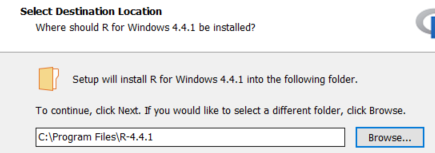
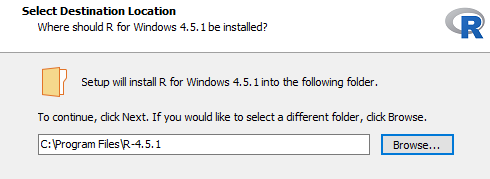
updating R install info

diff --git a/docs/course_overview.html b/docs/course_overview.html
@@ -93,8 +93,8 @@ code span.wa { color: #5e5e5e; font-style: italic; } /* Warning */
 
 
   <!--  https://schema.org/Article -->
-  <meta property="article:published" itemprop="datePublished" content="2025-08-20"/>
-  <meta property="article:created" itemprop="dateCreated" content="2025-08-20"/>
+  <meta property="article:published" itemprop="datePublished" content="2025-09-01"/>
+  <meta property="article:created" itemprop="dateCreated" content="2025-09-01"/>
 
   <!--  https://developers.facebook.com/docs/sharing/webmasters#markup -->
   <meta property="og:title" content="2025 Model Workshop - Website: Overview of workshop"/>
@@ -110,7 +110,7 @@ code span.wa { color: #5e5e5e; font-style: italic; } /* Warning */
   <!--radix_placeholder_rmarkdown_metadata-->
 
   <script type="text/json" id="radix-rmarkdown-metadata">
-  {"type":"list","attributes":{"names":{"type":"character","attributes":{},"value":["title","date","output","draft"]}},"value":[{"type":"character","attributes":{},"value":["Overview of workshop"]},{"type":"character","attributes":{},"value":["2025-08-20"]},{"type":"list","attributes":{"names":{"type":"character","attributes":{},"value":["distill::distill_article"]}},"value":[{"type":"list","attributes":{"names":{"type":"character","attributes":{},"value":["self_contained","toc","toc_float","depth","number_sections","code_folding"]}},"value":[{"type":"logical","attributes":{},"value":[true]},{"type":"logical","attributes":{},"value":[true]},{"type":"logical","attributes":{},"value":[true]},{"type":"integer","attributes":{},"value":[3]},{"type":"logical","attributes":{},"value":[false]},{"type":"logical","attributes":{},"value":[true]}]}]},{"type":"logical","attributes":{},"value":[false]}]}
+  {"type":"list","attributes":{"names":{"type":"character","attributes":{},"value":["title","date","output","draft"]}},"value":[{"type":"character","attributes":{},"value":["Overview of workshop"]},{"type":"character","attributes":{},"value":["2025-09-01"]},{"type":"list","attributes":{"names":{"type":"character","attributes":{},"value":["distill::distill_article"]}},"value":[{"type":"list","attributes":{"names":{"type":"character","attributes":{},"value":["self_contained","toc","toc_float","depth","number_sections","code_folding"]}},"value":[{"type":"logical","attributes":{},"value":[true]},{"type":"logical","attributes":{},"value":[true]},{"type":"logical","attributes":{},"value":[true]},{"type":"integer","attributes":{},"value":[3]},{"type":"logical","attributes":{},"value":[false]},{"type":"logical","attributes":{},"value":[true]}]}]},{"type":"logical","attributes":{},"value":[false]}]}
   </script>
   <!--/radix_placeholder_rmarkdown_metadata-->
   <!--radix_placeholder_navigation_in_header-->
@@ -2094,7 +2094,7 @@ code span.wa { color: #5e5e5e; font-style: italic; } /* Warning */
 <!--radix_placeholder_front_matter-->
 
 <script id="distill-front-matter" type="text/json">
-{"title":"Overview of workshop","authors":[],"publishedDate":"2025-08-20T00:00:00.000+10:00"}
+{"title":"Overview of workshop","authors":[],"publishedDate":"2025-09-01T00:00:00.000+10:00"}
 </script>
 
 <!--/radix_placeholder_front_matter-->
@@ -2154,16 +2154,15 @@ Extra topics
 <ul>
 <li><a href="#acknowledgement-of-country" id="toc-acknowledgement-of-country">Acknowledgement of country</a></li>
 <li><a href="#workshop-structure" id="toc-workshop-structure">Workshop Structure</a></li>
-<li><a href="#what-the-workshop-is-trying-to-do" id="toc-what-the-workshop-is-trying-to-do">What the workshop is trying to do</a></li>
+<li><a href="#at-the-end-of-the-workshop-attendees-should-be-able-to" id="toc-at-the-end-of-the-workshop-attendees-should-be-able-to">At the end of the workshop attendees should be able to:</a></li>
 <li><a href="#what-is-it-not-trying-to-do" id="toc-what-is-it-not-trying-to-do">What is it <strong>NOT</strong> trying to do</a></li>
 <li><a href="#what-to-expect" id="toc-what-to-expect">What to expect</a>
 <ul>
 <li><a href="#approach" id="toc-approach">Approach</a></li>
-<li><a href="#may-need-to-take-a-step-back-at-times" id="toc-may-need-to-take-a-step-back-at-times">May need to take a step-back at times</a></li>
+<li><a href="#group-projects" id="toc-group-projects">Group projects</a></li>
 </ul></li>
 <li><a href="#course-website" id="toc-course-website">Course Website</a></li>
 <li><a href="#plug-for-qeari" id="toc-plug-for-qeari">Plug for QEARI</a></li>
-<li><a href="#what-to-do-when-my-brain-hurts" id="toc-what-to-do-when-my-brain-hurts">What to do when my brain hurts…</a></li>
 </ul>
 </nav>
 </div>
@@ -2173,10 +2172,10 @@ Extra topics
 <h1 id="workshop-structure">Workshop Structure</h1>
 <p>This is a 4-day workshop ( SEP16-19 2024) with each day running from 9am-12pm. During each day’s session, we will cover a new topic in the workflow pipeline.</p>
 <ul>
-<li><p>Monday: Overview of workflow, importing, cleaning (Ben)</p></li>
-<li><p>Tuesday: Analysis of data (Paul)</p></li>
-<li><p>Wednesday: Creating reports (Paul)</p></li>
-<li><p>Thursday: Creating shiny Apps (Ben)</p></li>
+<li><p>Monday: Which statistical distribution to pick (Ben)</p></li>
+<li><p>Tuesday: Continuous data models (Paul)</p></li>
+<li><p>Wednesday: Discrete data models (Ben)</p></li>
+<li><p>Thursday: More advanced models (Paul)</p></li>
 </ul>
 <p>Within each day, the session is structured to be mainly ‘talk-and-chalk’ for the first half and then more hands-on for the second half.</p>
 <p>** Notes **</p>
@@ -2185,76 +2184,38 @@ Extra topics
 <li><p><strong>Ask questions</strong> anytime. Most likely someone else will have the same question. We may defer the question to hands-on section if it is too much of rabbit-hole.</p></li>
 <li><p>We will have a wide range of skills across the days</p></li>
 </ol>
-<p><strong>Most Importantly, tea will be provided!! 😀</strong></p>
+<p><strong>Most Importantly, tea will be provided!! 😃</strong></p>
 <hr />
-<h1 id="what-the-workshop-is-trying-to-do">What the workshop is trying to do</h1>
+<h1 id="at-the-end-of-the-workshop-attendees-should-be-able-to">At the end of the workshop attendees should be able to:</h1>
 <ul>
-<li>Become familiar with data analyst workflow</li>
-<li>Learn a workflow from data cleaning to analysis to presenting/communicating results in one platform</li>
-<li>Increase your knowledge about the R workflow, resources, and capabilities 👍</li>
-<li>Provide a resource to refer to to help remind you how to get going</li>
+<li>Select which distribution the data comes from</li>
+<li>Decide which statistical model is appropriate</li>
+<li>How to construct that model and run it in R</li>
+<li>Know how to interpret the model results</li>
+<li>Know what to present to their audience</li>
 </ul>
 <h1 id="what-is-it-not-trying-to-do">What is it <strong>NOT</strong> trying to do</h1>
 <ul>
-<li>Turn you into a R programmer/Shiny app developer in 4 days</li>
-<li>Going in-depth into any specific topic (except R workflow)</li>
+<li>Turn you into a R programmer in 4 days</li>
 <li>Make you cry 😢</li>
 </ul>
 <hr />
 <h1 id="what-to-expect">What to expect</h1>
 <h2 id="approach">Approach</h2>
-<p>Compared to when we started providing biometrics workshops, the amount of resources and online learning tools has exploded. Partly as a consequence, there has been a homogenization of workflow driven by key leaders in the area that have pushed the technology and analysis paradigms.</p>
-<p>Given this, we will attempt in this workshop to act more as a guide to help you develop a solid framework that you can use as a launching point. We will point out amazing resources out but also hoping that the workshop will give you the foundation to dive deeper into the topics specific to your research/needs. Part of this is introducing to you to tools/concepts as well as introducing to the terminology in R workflows.</p>
-<h2 id="may-need-to-take-a-step-back-at-times">May need to take a step-back at times</h2>
-<p>For some, the last two days of the workshop might push their limits but the skills in these session are becoming more important as the expectation of how we communicate our research grows and evolves.</p>
-<p>On Day 3 (creating reports), the Quarto(/Rmarkdown) approach takes a bit to get used to if you are used to WYSIWYG (<strong>W</strong>hat <strong>Y</strong>ou <strong>S</strong>ee <strong>I</strong>s <strong>W</strong>hat <strong>Y</strong>ou <strong>G</strong>et). The key is to focus on the higher level concepts (e.g. focusing on the higher level concepts of how it could be useful for your research). Most importantly, once you have a template to work from and understand key fundamentals, you can easily modify (often having no clue how most of it works…my approach for years to be honest).</p>
-<p>Now, for Day 4 (Shiny Apps), Shiny is going to look, frustratingly, different as shown below:</p>
-<div class="layout-chunk" data-layout="l-body">
-<details>
-<summary>
-Show code
-</summary>
-<div class="sourceCode">
-<pre class="sourceCode r"><code class="sourceCode r"><span><span class='kw'><a href='https://rdrr.io/r/base/library.html'>library</a></span><span class='op'>(</span><span class='va'><a href='https://shiny.posit.co/'>shiny</a></span><span class='op'>)</span></span>
-<span></span>
-<span><span class='co'># Define UI for application that draws a histogram</span></span>
-<span><span class='va'>ui</span> <span class='op'>&lt;-</span> <span class='fu'><a href='https://rdrr.io/pkg/shiny/man/fluidPage.html'>fluidPage</a></span><span class='op'>(</span></span>
-<span>  <span class='fu'><a href='https://rdrr.io/pkg/shiny/man/fluidPage.html'>fluidRow</a></span><span class='op'>(</span> </span>
-<span>    <span class='fu'><a href='https://rdrr.io/pkg/shiny/man/selectInput.html'>selectInput</a></span><span class='op'>(</span><span class='st'>'x'</span>,<span class='st'>'X-Variable'</span>, choices <span class='op'>=</span> <span class='fu'><a href='https://rdrr.io/r/base/names.html'>names</a></span><span class='op'>(</span><span class='va'>mtcars</span><span class='op'>)</span><span class='op'>)</span>,</span>
-<span>    <span class='fu'><a href='https://rdrr.io/pkg/shiny/man/selectInput.html'>selectInput</a></span><span class='op'>(</span><span class='st'>'y'</span>,<span class='st'>'Y-Variable'</span>, choices <span class='op'>=</span> <span class='fu'><a href='https://rdrr.io/r/base/names.html'>names</a></span><span class='op'>(</span><span class='va'>mtcars</span><span class='op'>)</span><span class='op'>)</span>,</span>
-<span>    <span class='fu'><a href='https://rdrr.io/pkg/shiny/man/plotOutput.html'>plotOutput</a></span><span class='op'>(</span><span class='st'>'plot'</span><span class='op'>)</span> </span>
-<span><span class='op'>)</span></span>
-<span><span class='op'>)</span></span>
-<span><span class='co'># Define server logic required to draw a histogram</span></span>
-<span><span class='va'>server</span> <span class='op'>&lt;-</span> <span class='kw'>function</span><span class='op'>(</span><span class='va'>input</span>, <span class='va'>output</span>, <span class='va'>session</span><span class='op'>)</span> <span class='op'>{</span></span>
-<span>  <span class='va'>output</span><span class='op'>$</span><span class='va'>plot</span> <span class='op'>&lt;-</span> <span class='fu'><a href='https://rdrr.io/pkg/shiny/man/renderPlot.html'>renderPlot</a></span><span class='op'>(</span><span class='op'>{</span></span>
-<span>    <span class='fu'><a href='https://rdrr.io/r/graphics/plot.default.html'>plot</a></span><span class='op'>(</span> <span class='va'>mtcars</span><span class='op'>[</span>,<span class='va'>input</span><span class='op'>$</span><span class='va'>x</span><span class='op'>]</span>, <span class='va'>mtcars</span><span class='op'>[</span>,<span class='va'>input</span><span class='op'>$</span><span class='va'>y</span><span class='op'>]</span> <span class='op'>)</span></span>
-<span>    </span>
-<span>  <span class='op'>}</span><span class='op'>)</span></span>
-<span><span class='op'>}</span><span class='co'># Run the application </span></span>
-<span></span>
-<span><span class='fu'><a href='https://rdrr.io/pkg/shiny/man/shinyApp.html'>shinyApp</a></span><span class='op'>(</span>ui <span class='op'>=</span> <span class='va'>ui</span>, server <span class='op'>=</span> <span class='va'>server</span><span class='op'>)</span></span></code></pre>
-</div>
-</details>
-</div>
-<p>However, shiny apps have a very basic structure and once you get that (and a few other key bits), you can often grab other people’s code and modify slightly to get what you need.</p>
-<p>Reminder - The goal here is <strong>not to make you a programmer</strong> but familiar with a few key tools so that you can tinker away.</p>
+<p>Compared to when we started providing biometrics workshops, the amount of resources and online learning tools has grown exponentially. In particular, AI has become an essential tool and will write R code for you (see <a href="help_ai.html">Using AI</a> ). An advantage of this new reality is that we can focus more on the concepts, de-emphasizing the R coding component of the workshop. Therefore, for those less familiar with R, the <strong>most important thing is understanding the concepts</strong> and try not to get bogged down by R coding. That being said, R is at the heart to the workshop and most things will be demonstrated using R.</p>
+<h2 id="group-projects">Group projects</h2>
+<p>In this workshop, we’re using group projects as a way to make learning R and statistical modeling more manageable. Working in teams can also help spread out the coding load, so if you’re newer to R, you won’t feel stuck or overwhelmed. That being said, if you already have the R coding expertise, feel free to work on your own as well.</p>
 <hr />
 <h1 id="course-website">Course Website</h1>
-<p>Obviously, there is a course website. For those that attended the masterclass on R spatial capabilities orchestrated by Justin Cally, the website design will be familiar. It is a blog-centric website and we will add each day’s lecture the morning of.</p>
+<p>Obviously, there is a course website. It is a blog-centric website and we will add each day’s lecture the morning of.</p>
 <aside>
-Website is built using <code>distill</code> package and hosted by github pages
+FYI - Website is built using <code>distill</code> package and hosted by github pages
 </aside>
-<p>By the nature of this workshop, we have limited time and cannot go in-depth. Therefore, we have tried to distill out the key concepts/steps in the course notes, but there might be topics that need additional explanation and examples. If so, Paul and I are happy to write up a short-blurp about it and post it on the “Extra topics” in the upper right.</p>
+<p>By the nature of this workshop, we have limited time and cannot go in-depth. Therefore, we have tried to distill out the key concepts/steps in the course notes, but there might be topics that need additional explanation and examples. If so, Paul and I are happy to write up a short-blurp about it and post it on the “Extra topics” in the upper right of website.</p>
 <hr />
 <h1 id="plug-for-qeari">Plug for QEARI</h1>
-<p>Just a reminder QEARI (<strong>Q</strong>uantitative <strong>E</strong>cology <strong>ARI</strong>) is a great resource and a safe place for asking “dumb” questions. The amount of expertise among its regulars is impressive! There are multiple channels to ask questions including a <strong>new one for shiny Apps</strong>!!!</p>
+<p>Just a reminder QEARI (<strong>Q</strong>uantitative <strong>E</strong>cology <strong>ARI</strong>) is a great resource and a safe place for asking “dumb” questions. The amount of expertise among its regulars is impressive!</p>
 <p><img src="images/course_overview/teams_qeari.PNG" style="width:50.0%" /></p>
-<hr />
-<h1 id="what-to-do-when-my-brain-hurts">What to do when my brain hurts…</h1>
-<p>Zen out while checking out the 367 Collins Peregrines….</p>
-<iframe width="657" height="370" src="https://www.youtube.com/embed/VLLNNTjaSEA" title="367 Collins Falcons 2024 - South facing" frameborder="0" allow="accelerometer; autoplay; clipboard-write; encrypted-media; gyroscope; picture-in-picture; web-share" referrerpolicy="strict-origin-when-cross-origin" allowfullscreen>
-</iframe>
 <p><br></p>
 <div class="sourceCode" id="cb1"><pre class="sourceCode r distill-force-highlighting-css"><code class="sourceCode r"></code></pre></div>
 <!--radix_placeholder_article_footer-->

diff --git a/docs/installR.html b/docs/installR.html
@@ -2150,7 +2150,7 @@ Extra topics
 <h3>Contents</h3>
 <ul>
 <li><a href="#before-the-workshop" id="toc-before-the-workshop">Before the workshop</a></li>
-<li><a href="#package-dependencies" id="toc-package-dependencies">Package Dependencies</a></li>
+<li><a href="#r-packages-for-workshop" id="toc-r-packages-for-workshop">R Packages for Workshop</a></li>
 </ul>
 </nav>
 </div>
@@ -2165,16 +2165,16 @@ Extra topics
 <p><img src="images/install/r_windows.PNG" style="width:90.0%" /></p></li>
 <li><p>click “base”</p>
 <p><img src="images/install/r_base.PNG" style="width:90.0%" /></p></li>
-<li><p>click ‘Download R-4.4.1 for Windows’</p>
+<li><p>click ‘Download R-4.5.1 for Windows’</p>
 <p><img src="images/install/r_dwnld.PNG" style="width:90.0%" /></p></li>
-<li><p>click the downloaded ‘R-4.4.1-win.exe’ to start install</p></li>
+<li><p>click the downloaded ‘R-4.5.1-win.exe’ to start install</p></li>
 <li><p>when you get to install locations, install to ‘C:\Windows\Program Files’</p>
 <p><img src="images/install/r_loc.PNG" style="width:90.0%" /></p></li>
 <li><p>accept all defaults along the way</p></li>
 </ul></li>
 <li><p>Download the version of <code>Rtools</code> matching your <code>R</code> installation: <a href="https://cran.r-project.org/bin/windows/Rtools/" class="uri">https://cran.r-project.org/bin/windows/Rtools/</a></p>
 <ul>
-<li><p>click on ‘RTools 4.4’</p>
+<li><p>click on ‘RTools 4.5’</p>
 <p><img src="images/install/rtools_select.PNG" style="width:90.0%" /></p></li>
 <li><p>Scroll down until you see ‘Rtools44 Installer’ and click on it:</p>
 <p><img src="images/install/rtools_installer.PNG" style="width:90.0%" /></p></li>
@@ -2186,18 +2186,21 @@ Extra topics
 <ul>
 <li><p>click on ‘Download Rstudio….’ button</p>
 <p><img src="images/install/rstudio_select.PNG" style="width:90.0%" /></p></li>
-<li><p>click on ‘RStudio-2024.04.2-764.exe’</p></li>
+<li><p>click on ‘RStudio-2025.05.1-XXX.exe’</p></li>
 <li><p>install to ‘C:\Windows\Data’ like rtools and accept defaults</p></li>
 </ul></li>
 <li><p>Open <code>Rstudio</code> as you would any other program to check that it opens. If so, move onto installing packages below</p>
 <p><img src="images/install/rstudio_screen.PNG" style="width:70.0%" /></p></li>
 </ol>
-<h1 id="package-dependencies">Package Dependencies</h1>
-<p>One of the strengths of <code>R</code> is that it is open-source and collaborators can contribute their own code in the form of packages. For our workshop we will be downloading some packages on the fly, but one <code>tidyverse</code> will be across days so please download ahead of time (copy code below and paste into R):</p>
+<h1 id="r-packages-for-workshop">R Packages for Workshop</h1>
+<p>One of the strengths of <code>R</code> is that it is open-source and collaborators can contribute their own code in the form of packages. For our workshop we will be downloading some packages on the fly.</p>
+<p>There are two packages: <code>tidyverse</code> and <code>brms</code> to download ahead of time (copy code below and paste into R):</p>
 <div class="layout-chunk" data-layout="l-body">
-
+<div class="sourceCode">
+<pre class="sourceCode r"><code class="sourceCode r"><span><span class='fu'><a href='https://rdrr.io/r/utils/install.packages.html'>install.packages</a></span><span class='op'>(</span>pkgs <span class='op'>=</span> <span class='fu'><a href='https://rdrr.io/r/base/c.html'>c</a></span><span class='op'>(</span><span class='st'>"tidyverse"</span>,<span class='st'>"brms"</span><span class='op'>)</span> <span class='op'>)</span></span></code></pre>
 </div>
-<p>For newbies, click on ‘install’ button in the <code>Packages</code> tab in lower right. Then write in ‘tidyverse’ and click ‘Install’</p>
+</div>
+<p>For newbies, click on ‘install’ button in the <code>Packages</code> tab in lower right. Then write in ‘tidyverse’ and click ‘Install’. Repeat process for <code>brms</code> package.</p>
 <p><img src="images/install/install_tidyverse.PNG" style="width:90.0%" /></p>
 <div class="sourceCode" id="cb1"><pre class="sourceCode r distill-force-highlighting-css"><code class="sourceCode r"></code></pre></div>
 <!--radix_placeholder_article_footer-->
